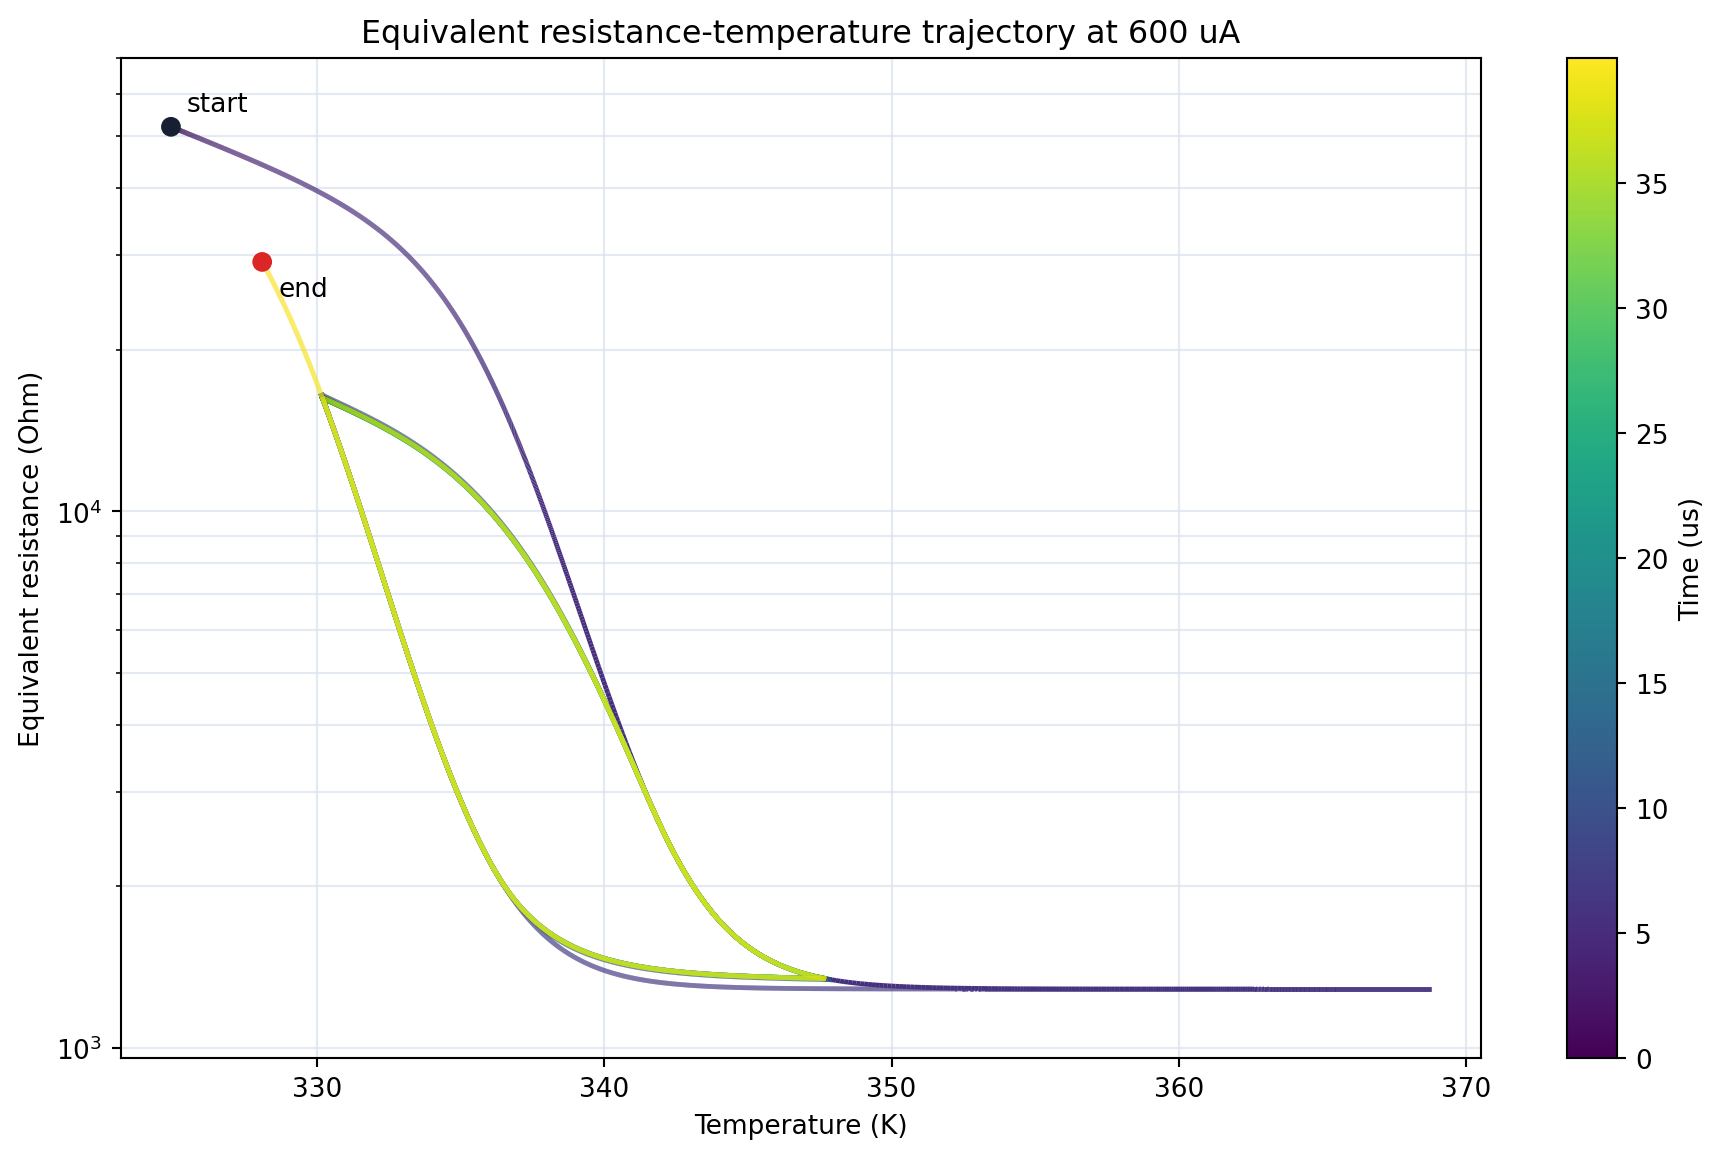
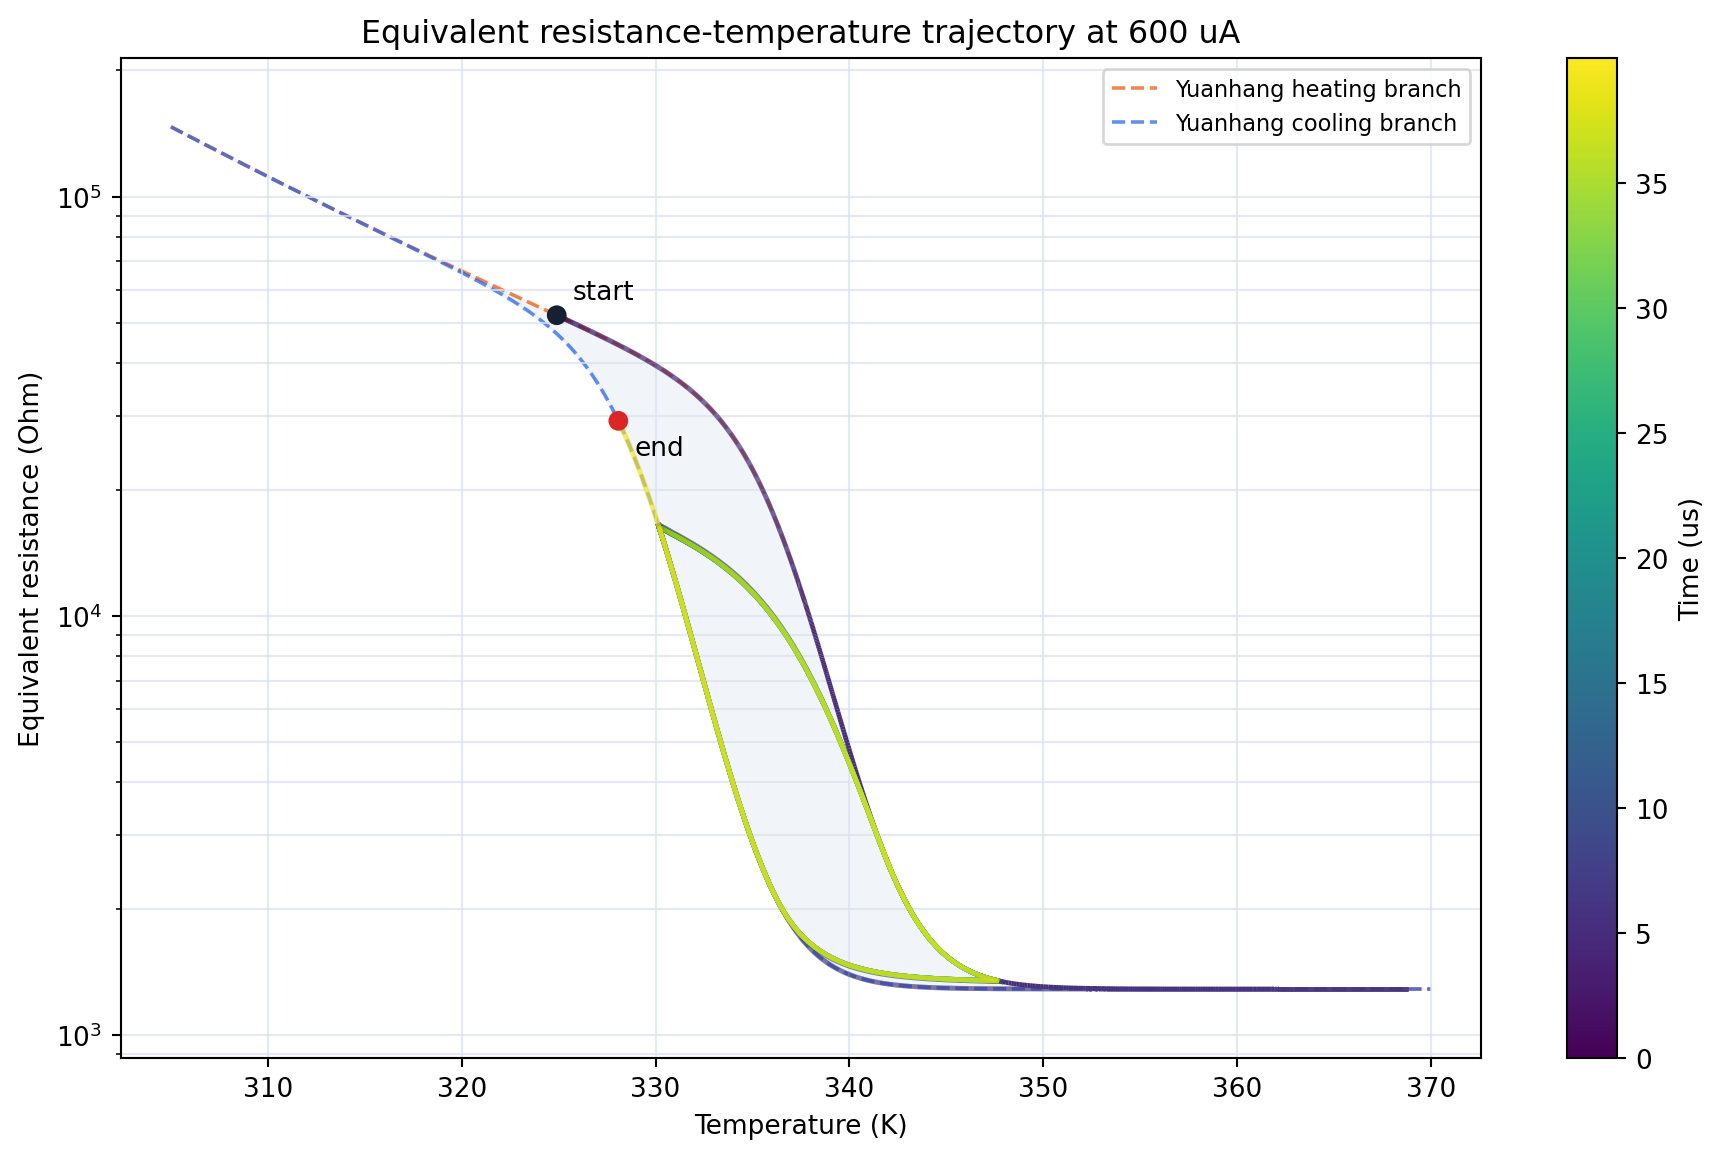
Overlay Yuanhang hysteresis reference

diff --git a/src/neuristor/visualization.py b/src/neuristor/visualization.py
@@ -16,6 +16,8 @@ from matplotlib.animation import FuncAnimation, PillowWriter
 from matplotlib.collections import LineCollection
 from matplotlib.colors import Normalize
 
+from .model import HysteresisArray, YuanhangResistParams
+
 
 COLORS = {
     "ink": "#172033",
@@ -75,6 +77,55 @@ def _current_trace_arrays(frame: pd.DataFrame) -> tuple[np.ndarray, ...]:
     return tuple(values[keep] for values in arrays)
 
 
+def _yuanhang_major_branches() -> tuple[np.ndarray, np.ndarray, np.ndarray]:
+    """Evaluate the published Yuanhang major heating and cooling branches."""
+
+    params = YuanhangResistParams()
+    temperature_K = np.linspace(params.T_min_K, params.T_max_K, 600, dtype=np.float32)
+    branch_resistance: list[np.ndarray] = []
+    for branch in ("insulator", "metal"):
+        hysteresis = HysteresisArray(params, len(temperature_K), start_branch=branch)
+        hysteresis.initialize(temperature_K)
+        resistance_ohm, _ = hysteresis.evaluate(temperature_K)
+        branch_resistance.append(np.asarray(resistance_ohm, dtype=float))
+    return np.asarray(temperature_K, dtype=float), branch_resistance[0], branch_resistance[1]
+
+
+def _plot_yuanhang_hysteresis_background(ax: plt.Axes) -> tuple[np.ndarray, np.ndarray, np.ndarray]:
+    """Draw the Yuanhang major loop as a quiet reference behind a trajectory."""
+
+    reference_temperature_K, heating_resistance_ohm, cooling_resistance_ohm = _yuanhang_major_branches()
+    ax.fill_between(
+        reference_temperature_K,
+        cooling_resistance_ohm,
+        heating_resistance_ohm,
+        color=COLORS["grid"],
+        alpha=0.38,
+        zorder=0,
+    )
+    ax.plot(
+        reference_temperature_K,
+        heating_resistance_ohm,
+        color=COLORS["orange"],
+        linestyle="--",
+        linewidth=1.35,
+        alpha=0.72,
+        label="Yuanhang heating branch",
+        zorder=1,
+    )
+    ax.plot(
+        reference_temperature_K,
+        cooling_resistance_ohm,
+        color=COLORS["blue"],
+        linestyle="--",
+        linewidth=1.35,
+        alpha=0.72,
+        label="Yuanhang cooling branch",
+        zorder=1,
+    )
+    return reference_temperature_K, heating_resistance_ohm, cooling_resistance_ohm
+
+
 def plot_resistance_temperature_trajectory(
     frame: pd.DataFrame,
     out_path: str | Path,
@@ -90,8 +141,10 @@ def plot_resistance_temperature_trajectory(
     norm = Normalize(vmin=float(time_us.min()), vmax=float(time_us.max()))
 
     fig, ax = plt.subplots(figsize=(9.8, 6.2))
+    _plot_yuanhang_hysteresis_background(ax)
     trajectory = LineCollection(segments, cmap="viridis", norm=norm, linewidth=1.8)
     trajectory.set_array(segment_time)
+    trajectory.set_zorder(3)
     ax.add_collection(trajectory)
     ax.scatter(
         [temperature_K[0], temperature_K[-1]],
@@ -109,6 +162,7 @@ def plot_resistance_temperature_trajectory(
     ax.set_ylabel("Equivalent resistance (Ohm)")
     ax.set_title(title)
     ax.grid(True, which="both", color=COLORS["grid"], alpha=0.75)
+    ax.legend(loc="upper right", fontsize=8.5)
     fig.colorbar(trajectory, ax=ax, label="Time (us)")
     return _finish(fig, out_path)
 
@@ -155,15 +209,20 @@ def animate_current_resistance_temperature(
     wave_ax.grid(True, color=COLORS["grid"], alpha=0.75)
     wave_ax.legend([current_line, voltage_line], ["Current", "Voltage"], loc="upper right")
 
-    rt_ax.plot(temperature_K, resistance_ohm, color=COLORS["purple"], linewidth=1.0, alpha=0.18)
+    reference_temperature_K, heating_resistance_ohm, cooling_resistance_ohm = (
+        _plot_yuanhang_hysteresis_background(rt_ax)
+    )
+    rt_ax.plot(temperature_K, resistance_ohm, color=COLORS["purple"], linewidth=1.0, alpha=0.18, zorder=2)
     (rt_line,) = rt_ax.plot([], [], color=COLORS["purple"], linewidth=1.8)
     (rt_point,) = rt_ax.plot([], [], "o", color=COLORS["red"], markersize=6)
-    rt_ax.set_xlim(float(temperature_K.min()) - 1.0, float(temperature_K.max()) + 1.0)
-    rt_ax.set_ylim(float(resistance_ohm.min()) * 0.85, float(resistance_ohm.max()) * 1.18)
+    rt_ax.set_xlim(float(reference_temperature_K.min()) - 1.0, float(reference_temperature_K.max()) + 1.0)
+    reference_resistance = np.concatenate([heating_resistance_ohm, cooling_resistance_ohm, resistance_ohm])
+    rt_ax.set_ylim(float(reference_resistance.min()) * 0.85, float(reference_resistance.max()) * 1.18)
     rt_ax.set_yscale("log")
     rt_ax.set_xlabel("Temperature (K)")
     rt_ax.set_ylabel("Equivalent resistance (Ohm)")
     rt_ax.grid(True, which="both", color=COLORS["grid"], alpha=0.75)
+    rt_ax.legend(loc="upper right", fontsize=7.5)
     time_label = rt_ax.text(0.02, 0.98, "", transform=rt_ax.transAxes, ha="left", va="top")
     fig.suptitle(title, fontsize=14, color=COLORS["ink"])
     fig.tight_layout(rect=(0.0, 0.0, 1.0, 0.94))

diff --git a/docs/final_project/main.tex b/docs/final_project/main.tex
@@ -71,8 +71,6 @@
 
 This run checks that the Yuanhang-based implementation can produce a stable current-driven oscillation with a nonzero voltage valley. It validates the simulation mechanism; it is not a fit to the experimental sample.
 
-\subsection{Settings and assumptions}
-
 All values were taken from Zhang \emph{et al.}\ \cite{zhang2024}, except $C_{\mathrm{th}}$. At $600~\mu$A, the nominal value ($49.6278$~pJ/K) did not sustain oscillations, so it was increased fourfold to slow the thermal response and obtain a stable validation cycle. This control value is not an estimate of our sample's thermal capacitance.
 
 \begin{table}[H]
@@ -100,8 +98,6 @@ Analysis interval & $10$--$38~\mu$s \\
 \label{tab:validation_settings}
 \end{table}
 
-\subsection{Results}
-
 \begin{figure}[H]
 \centering
 \includegraphics[width=\textwidth]{../../public_jobs/20260810_170502_current-step-with-a-nonzero-metallic-voltage-val_b05d39/figures/overview.png}
@@ -112,7 +108,7 @@ Analysis interval & $10$--$38~\mu$s \\
 \begin{figure}[H]
 \centering
 \includegraphics[width=0.88\textwidth]{figures/resistance_temperature_trajectory.png}
-\caption{Equivalent resistance versus temperature, with color showing progression through the $40~\mu$s simulation. Repeated loops correspond to successive heating and cooling cycles.}
+\caption{Equivalent resistance versus temperature. The dashed curves and shaded band show Yuanhang's major heating and cooling hysteresis; color shows progression through the $40~\mu$s simulated trajectory.}
 \label{fig:rt_trajectory}
 \end{figure}
 
@@ -140,8 +136,6 @@ Thermal time $C_{\mathrm{th}}/S_e$ & $0.965581~\mu$s \\
 \caption{Metrics measured from the validation run.}
 \label{tab:validation_results}
 \end{table}
-
-\subsection{Voltage valley and experimental comparison}
 
 The metallic-state voltage is set approximately by $V=IR_m$:
 
